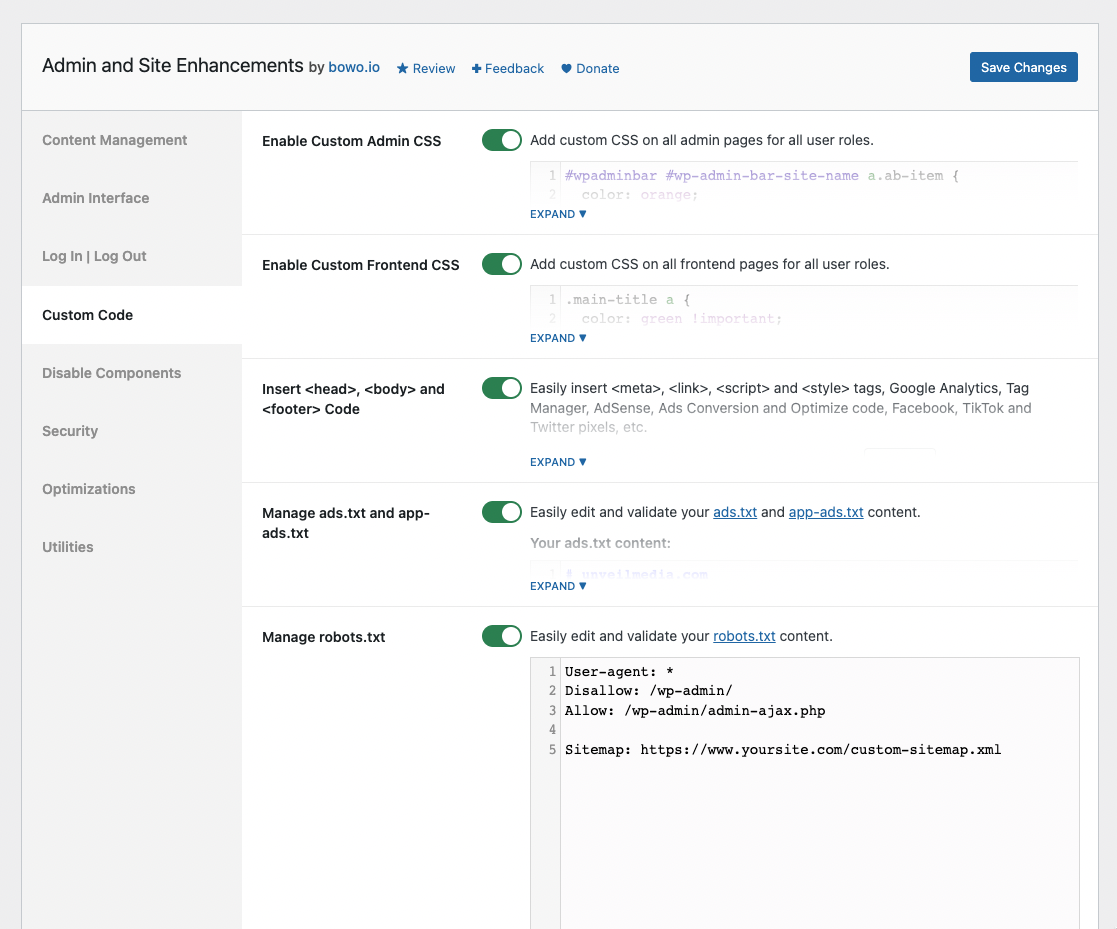
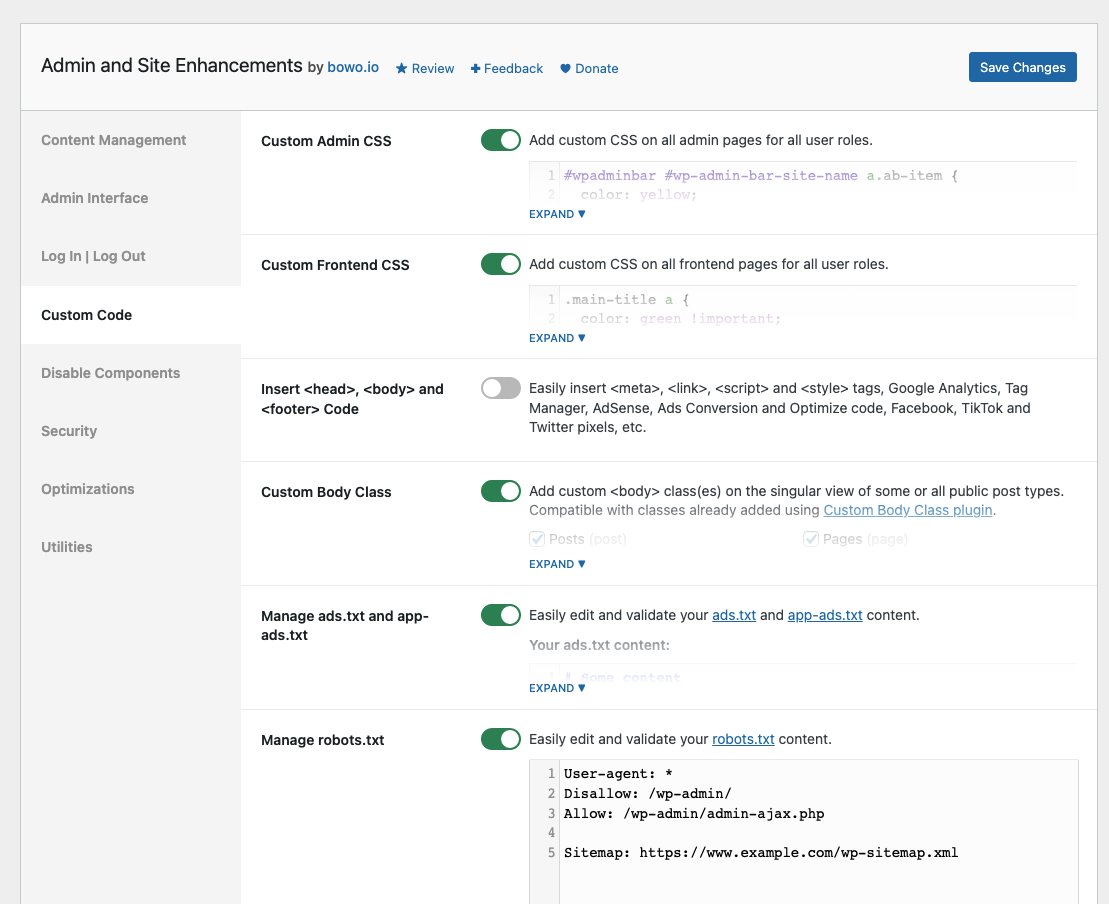
v4.4.0 release

diff --git a/admin-site-enhancements.php b/admin-site-enhancements.php
@@ -4,7 +4,7 @@
  * Plugin Name:       Admin and Site Enhancements
  * Plugin URI:        https://wordpress.org/plugins/admin-site-enhancements/
  * Description:       Easily enable enhancements and features that usually require multiple plugins.
- * Version:           4.3.1
+ * Version:           4.4.0
  * Author:            Bowo
  * Author URI:        https://bowo.io
  * License:           GPL-2.0+
@@ -18,7 +18,7 @@ if ( ! defined( 'ABSPATH' ) ) {
 	exit;
 }
 
-define( 'ASENHA_VERSION', '4.3.1' );
+define( 'ASENHA_VERSION', '4.4.0' );
 define( 'ASENHA_ID', 'asenha' );
 define( 'ASENHA_SLUG', 'admin-site-enhancements' );
 define( 'ASENHA_SLUG_U', 'admin_site_enhancements' );

diff --git a/README.md b/README.md
@@ -5,7 +5,7 @@ Donate link: https://paypal.me/qriouslad
 Tags: enhancements, tweaks, optimizations, tools  
 Requires at least: 4.6  
 Tested up to: 6.1.1  
-Stable tag: 4.3.1  
+Stable tag: 4.4.0  
 Requires PHP: 5.6  
 License: GPLv2 or later  
 License URI: http://www.gnu.org/licenses/gpl-2.0.html
@@ -67,6 +67,7 @@ Admin and Site Enhancements helps you to easily enhance various admin workflows 
 * **Custom Admin CSS**. Add custom CSS on all admin pages for all user roles.
 * **Custom Frontend CSS**. Add custom CSS on all frontend pages for all user roles.
 * **Insert &lt;head&gt;, &lt;body&gt; and &lt;footer&gt; Code**. Easily insert &lt;meta&gt;, &lt;link&gt;, &lt;script&gt; and &lt;style&gt; tags, Google Analytics, Tag Manager, AdSense, Ads Conversion and Optimize code, Facebook, TikTok and Twitter pixels, etc.
+* **Custom Body Class**. Add custom &lt;body&gt; class(es) on the singular view of some or all public post types. Compatible with classes already added using [Custom Body Class plugin](https://wordpress.org/plugins/wp-custom-body-class).
 * **Manage ads.txt and app-ads.txt**. Easily edit and validate your ads.txt and app-ads.txt content.
 * **Manage robots.txt**. Easily edit and validate your robots.txt content.
 
@@ -139,6 +140,10 @@ Admin and Site Enhancements will include more enhancements, tweaks and useful fe
 Hoping that this is useful in reducing the number of plugins we install the first time we set up a site.
 
 ## Changelog
+
+### 4.4.0 (2023.02.05)
+
+* **[ADDED] Custom Code >> Custom Body Class**. Add custom &lt;body&gt; class(es) on the singular view of some or all public post types. Compatible with classes already added using [Custom Body Class plugin](https://wordpress.org/plugins/wp-custom-body-class).
 
 ### 4.3.1 (2023.02.05)
 
